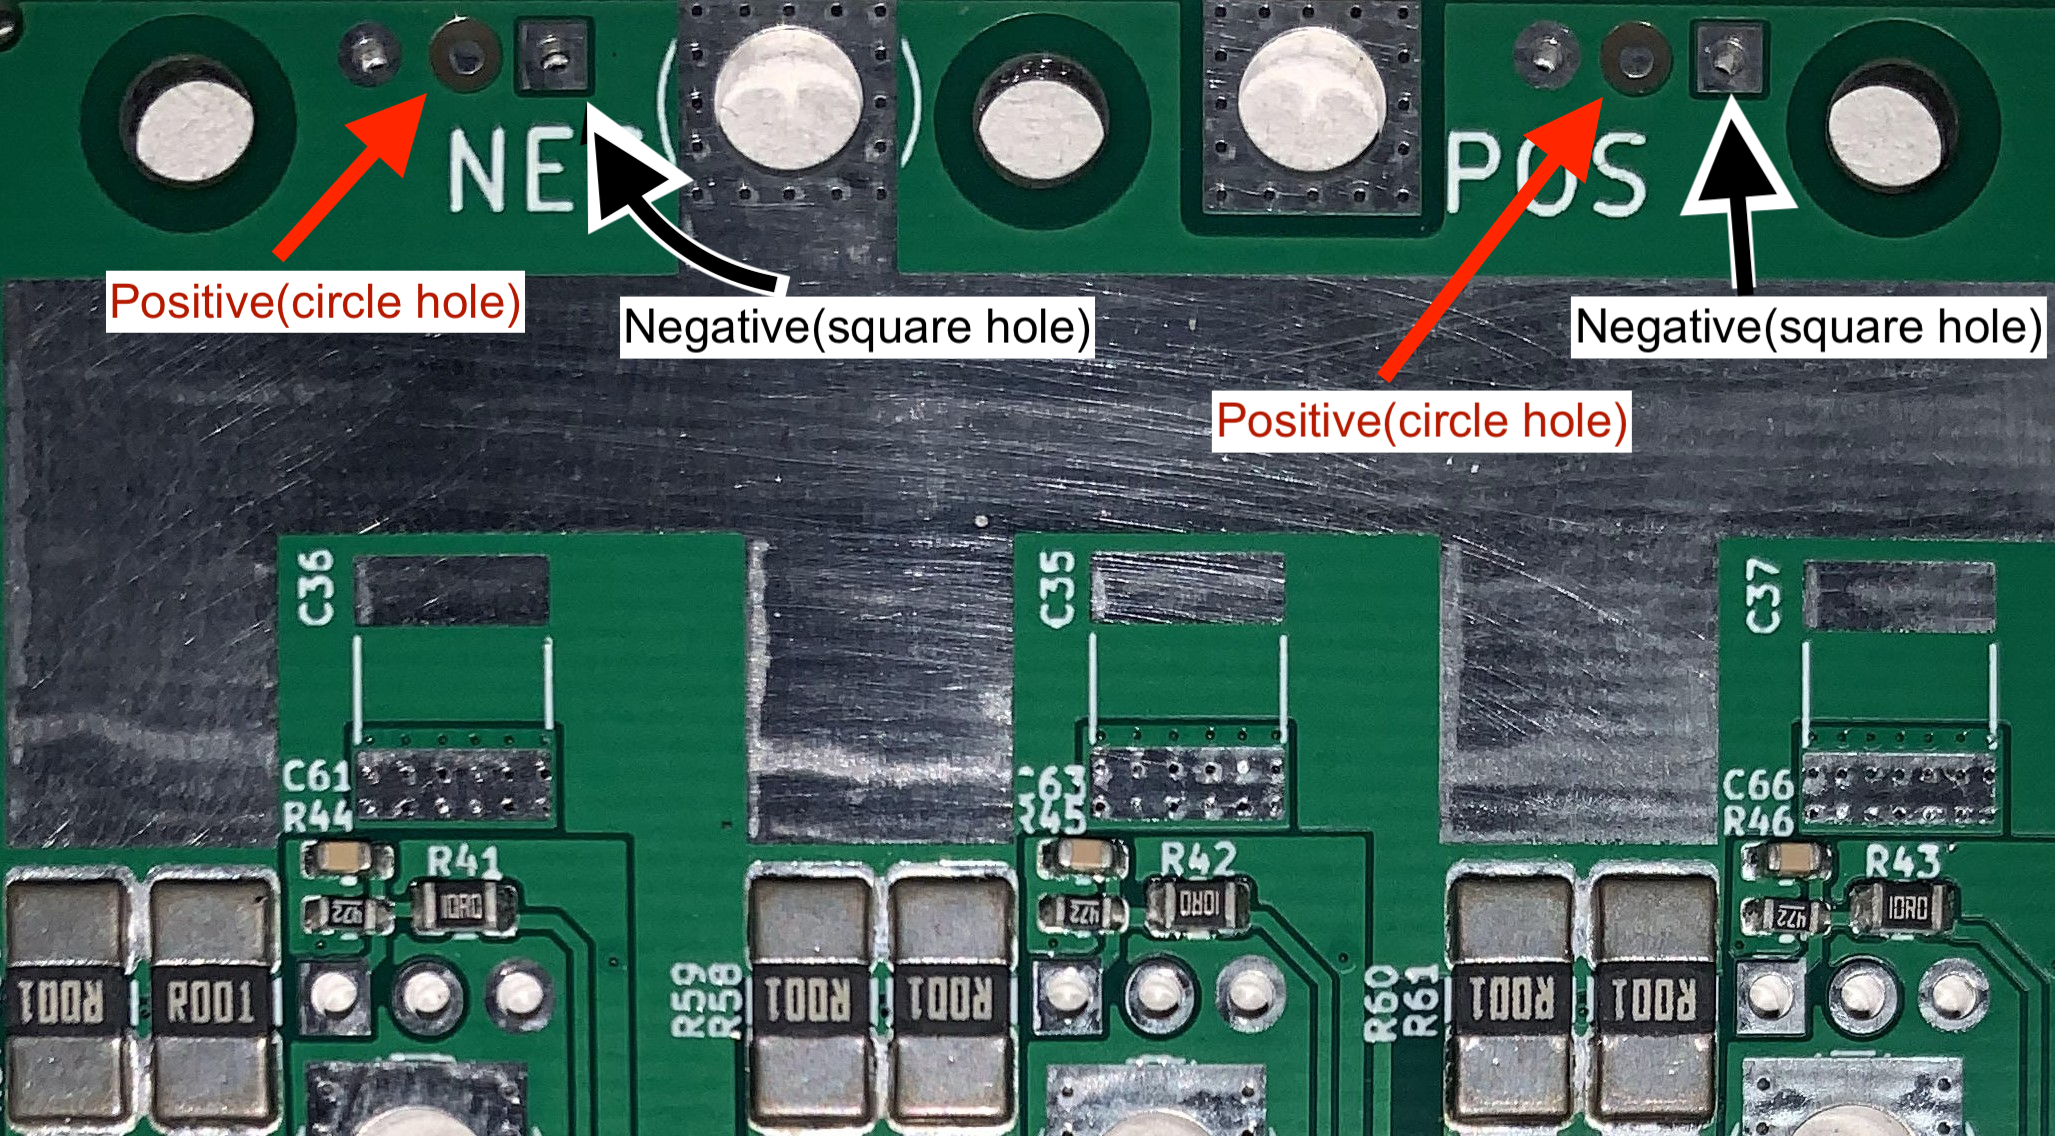
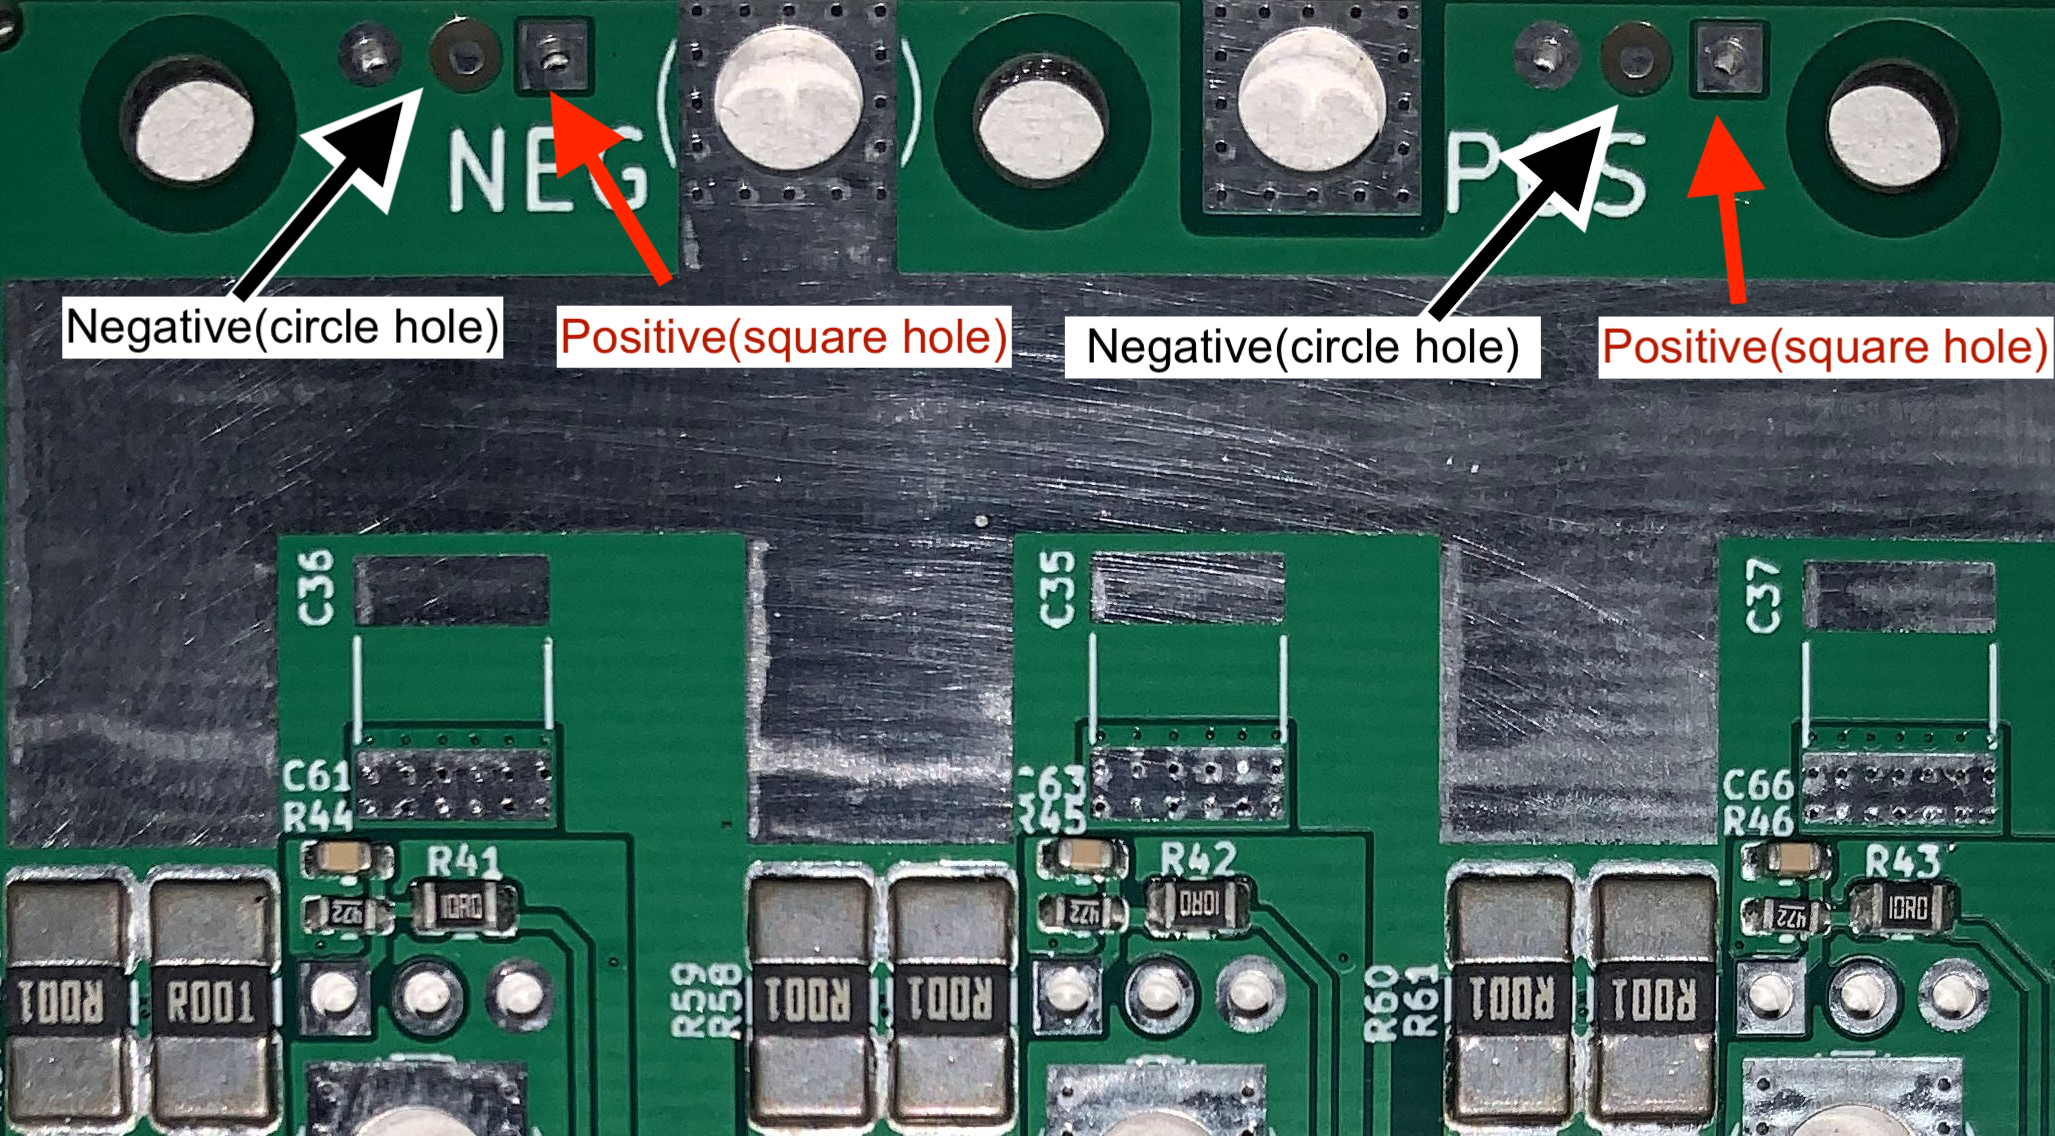
notes regarding diode and cap pols

Changed region(s): [[0.0311, 0.0616, 1.0, 0.4005]]

diff --git a/assembly/readme.md b/assembly/readme.md
@@ -89,17 +89,18 @@ Flip PCB over and solder MOSFET legs from the bottom side. Soldering from both t
 
 It is advised to apply excess solder to the thinner portions of the legs up to the point to where the legs widen. This adds more conductive material to the MOSFET legs where it is needed. Be sure to not create solder bridges between MOSFET legs.
 
+Fully assembled CFOC2 PCB(left) next to prepared heat sink(middle) and fastening hardware(right):
 ![](./images/image15.jpeg)
 
-Figure x. Fully assembled CFOC2 PCB(left) next to prepared heat sink(middle) and fastening hardware(right)
+## Solder all remaining components to include cables and the PCB
 
-Now solder all remaining components to include cables to the PCB.
-
-All [diodes](./images/diodPol.png) should be taken care of by JLCPCB. The only other polarized components are the [electrolytic caps](images/capPol.jpg). The circular PCB marking is positive and the square is for negative as shown below:
+All [diodes](./images/diodPol.png) should be taken care of by JLCPCB. The only other polarized components are the [electrolytic caps](images/capPol.jpg). The square PCB marking is positive and the circle is for negative as shown below:
 ![](images/capPolPositionOnPCB.png)
 
 If JLCPCB was out of stock for a polarized component please see the silkscreen marking on the PCB in white showing correct orientation for each polarized components as shown below:
 ![]()
+
+If you have any other questions regarding part placement and polarity please open [this](../) file in [KiCAD](https://www.kicad-pcb.org/).  See [this](https://www.kicad-pcb.org/help/file-formats/) for help with file formats.
 
 Be sure to trim excess motor and DC power cable ends on the bottom of the PCB so that there is not risk of the cables being bridged to the heat sink.
 
